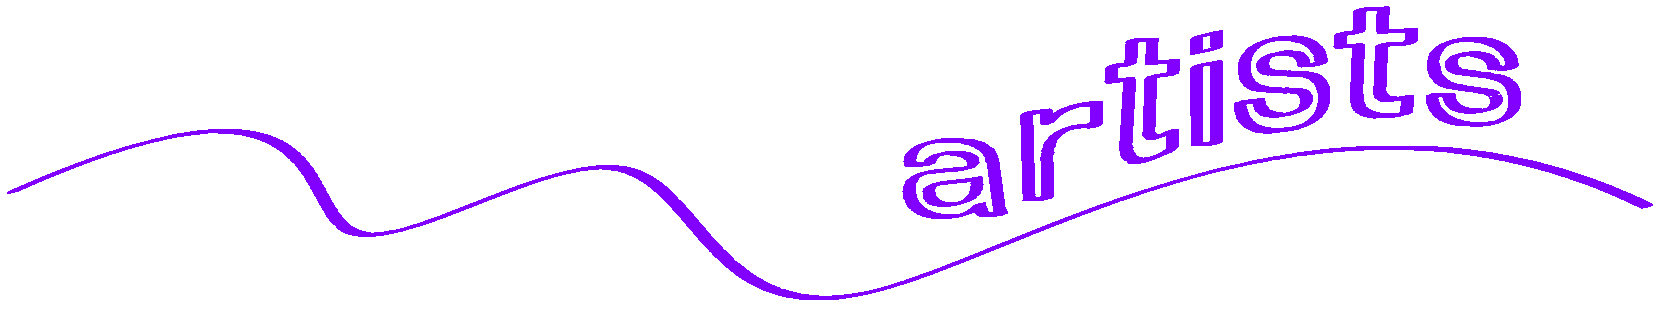
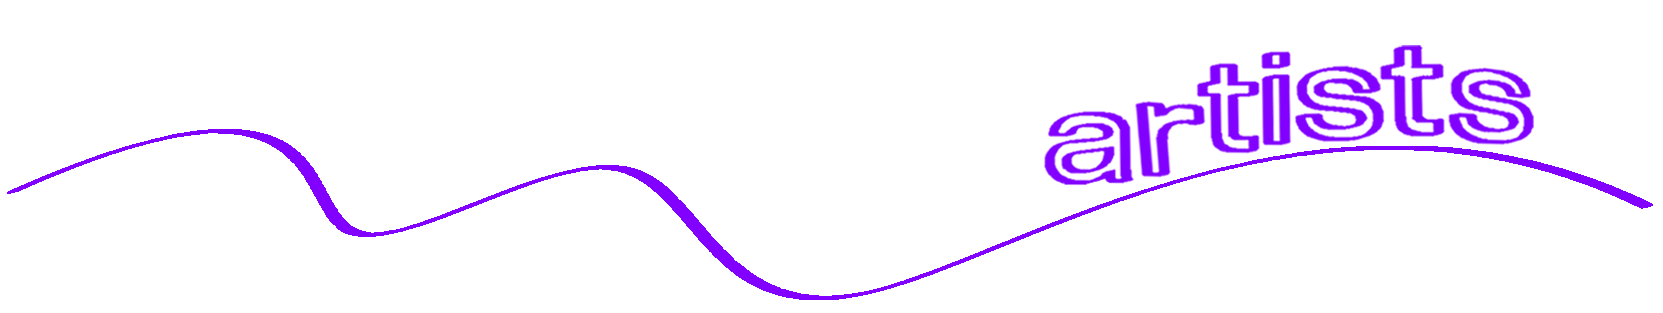
updated dividers, added numbers to exhibition

diff --git a/project-pages/collaborators.htm b/project-pages/collaborators.htm
@@ -103,90 +103,113 @@
         </div>
 
         <article id="ATM">
-          <h2>Archive of Trans Memory</h2>
-          <img src="../assets/collaborators/Archives.jpeg" width="50px" title="">
-          <p>Buenos Aires, Argentina</p>
-          <p>The Archive of Trans Memory was created in 2013 as an initiative of Trans activist María Belén Correa along with the help of visual artist Cecilia Estalles. Together, they initiated the digital preservation, conservation and
-            compilation
-            of
-            the archives. The archive functions to provide a space for visual and political research that gathers and rescues documents that demonstrate the heritage and history of the Argentine trans / transvestite community.</p>
-          <p>
-            The archive was formed to create new possibilities and a fertile territory for addressing new narratives and alternate historical discourse within this community. It creates an alternative cartography by actively looking to develop new
-            links between past, present and future.</p>
-          <p>
-            The work team is made up of a specialized team of surviving trans women, contemporary photographers and curators of photographs and documents. It is a collaborative space in which journalists, historians, curators, art critics, editors,
-            curators, researchers and teachers can explore the complexities of identities in new ways presented through diverse disciplines.</p>
-          <p>
-            The members of the Trans Memory Archive are: Carla Pericles, Magalí Muñiz, María Belén Correa, Car Ibarra, Cecilia Estalles, Cecilia Saurí.
-          </p>
+          <span>
+            <h2>Archive of Trans Memory</h2>
+            <p>Buenos Aires, Argentina</p>
+          </span>
+          <img src="../assets/collaborators/Archives.png" width="100px" title="">
+          <div>
+            <p class="detail">The Archive of Trans Memory was created in 2013 as an initiative of Trans activist María Belén Correa along with the help of visual artist Cecilia Estalles. Together, they initiated the digital preservation, conservation
+              and
+              compilation
+              of
+              the archives. The archive functions to provide a space for visual and political research that gathers and rescues documents that demonstrate the heritage and history of the Argentine trans / transvestite community.</p>
+            <p class="detail">
+              The archive was formed to create new possibilities and a fertile territory for addressing new narratives and alternate historical discourse within this community. It creates an alternative cartography by actively looking to develop new
+              links between past, present and future.</p>
+            <p class="detail">
+              The work team is made up of a specialized team of surviving trans women, contemporary photographers and curators of photographs and documents. It is a collaborative space in which journalists, historians, curators, art critics, editors,
+              curators, researchers and teachers can explore the complexities of identities in new ways presented through diverse disciplines.</p>
+            <p class="detail">
+              The members of the Trans Memory Archive are: Carla Pericles, Magalí Muñiz, María Belén Correa, Car Ibarra, Cecilia Estalles, Cecilia Saurí.
+            </p>
+          </div>
           <span><a href="https://archivotrans.ar/" target="_blank" title="website">archivotrans.ar</a></span>
         </article>
 
         <article id="CCC">
-          <h2>Catrileo Carrion Community</h2>
-          <img src="../assets/collaborators/CCC.png" width="50px" title="">
-          <p>Chile/ U.S.A.</p>
-          <p>Catrileo+Carrión Community (Wallmapu/Chile – Kumeyaay Land/San Diego, CA):
-            We are a two-spirit Mapuche (epupillan) community that develops research-creation artistic projects that are intimately linked to specific territories and communities. We have been working since 2015 from Wallmapu/Chile and now our
-            community is located both in California/Kumayaay land and South America. This hemispheric experience gives us a privileged point of view to see social change, land disputes and colonization from a broad perspective. We have worked from
-            art
-            crossing our biographies with diverse materialities and contexts with whom we get involved. We use video, archives, writing and weaving as practices that are intertwined with our own life. As a two-spirit non-reproductive community we
-            use
-            our vital energy to connect with others (human and non-humans) to share reflections and concerns. We use our biographies and positionalities to depict indigenous life as an ever-changing, deeply rooted and critical practice, but also a
-            transformative and creative force. We engage in a practice of occupation and re-structuring of the surface of the video/projection. We understand these surfaces as interfaces for decolonization, territorial imagination and re-connection
-            with each other. We believe in a future where a queer BIPOC utopia is possible, and we are rehearsing this idea in our everyday artistic and political practice.
-          </p>
+          <span>
+            <h2>Catrileo Carrion Community</h2>
+            <p>Chile/ U.S.A.</p>
+          </span>
+          <img src="../assets/collaborators/CCC.png" width="100px" title="">
+          <div>
+            <p class="detail">Catrileo+Carrión Community (Wallmapu/Chile – Kumeyaay Land/San Diego, CA):
+              We are a two-spirit Mapuche (epupillan) community that develops research-creation artistic projects that are intimately linked to specific territories and communities. We have been working since 2015 from Wallmapu/Chile and now our
+              community is located both in California/Kumayaay land and South America. This hemispheric experience gives us a privileged point of view to see social change, land disputes and colonization from a broad perspective. We have worked from
+              art
+              crossing our biographies with diverse materialities and contexts with whom we get involved. We use video, archives, writing and weaving as practices that are intertwined with our own life. As a two-spirit non-reproductive community we
+              use
+              our vital energy to connect with others (human and non-humans) to share reflections and concerns. We use our biographies and positionalities to depict indigenous life as an ever-changing, deeply rooted and critical practice, but also a
+              transformative and creative force. We engage in a practice of occupation and re-structuring of the surface of the video/projection. We understand these surfaces as interfaces for decolonization, territorial imagination and re-connection
+              with each other. We believe in a future where a queer BIPOC utopia is possible, and we are rehearsing this idea in our everyday artistic and political practice.
+            </p>
+          </div>
           <span><a href="https://www.instagram.com/catrileocarrion/" target="_blank" title="instagram">@catrileocarrion</a><a href="https://vimeo.com/catrileocarrion" target="_blank" title="vimeo">vimeo/catrileocarrion</a><a
               href="https://linktr.ee/catrileocarrion" target="_blank" title="linktree">linktr.ee/catrileocarrion</a></span>
         </article>
 
         <article id="JD">
-          <h2>Jennifer Dysart</h2>
-          <img src="../assets/collaborators/JD.jpg" width="50px" title="">
-          <p>Canada</p>
-          <p>Jennifer Dysart is a director of short films, an archive researcher, a film set decorator, a field
-            producer, a former assistant director and production coordinator. She is an archive enthusiast and loves found footage and experimental films. She was selected as the artist in residence at Library and Archives Canada via the
-            Archive/Counter-Archive project at York University in 2019/2020. She was commissioned filmmaker for the Home Made Visible project by Regent Park Film Festival and created Caribou in the Archive, a short experimental found footage film
-            in
-            2018/2019. For her found footage-heavy documentary Kewekapawetan: Return After the Flood, Jennifer received the York University Master’s Thesis Prize in 2014, as well as second place at the Factory Media Centre member screening in 2015.
-            In
-            2017, she was on the Board of Directors for the Factory Media Centre in Hamilton, Ontario and has served on many arts and film juries. She has been employed and inspired by many Canadian institutions such as the Museum of Anthropology,
-            York
-            University, The Art Gallery of Hamilton,The Banff Centre, Parks Canada National Historic Sites and The Whyte Museum of the Canadian Rockies. She has carried out research in many more locations such as the Provincial Archives of
-            Manitoba,
-            the Glenbow Museum, the Royal British Columbia Museum, Methodist Church Archives, and the Ontario Provincial Archives. Jennifer was born in Alberta (Blackfoot territory), raised in BC (Coast Salish territory), lives in Hamilton Ontario
-            (Haudenosaunee territory) and has Cree roots
-            from South Indian Lake, Manitoba.
-          </p>
+          <span>
+            <h2>Jennifer Dysart</h2>
+            <p>Canada</p>
+          </span>
+          <img src="../assets/collaborators/JD.jpg" width="100px" title="">
+          <div>
+            <p class="detail">Jennifer Dysart is a director of short films, an archive researcher, a film set decorator, a field
+              producer, a former assistant director and production coordinator. She is an archive enthusiast and loves found footage and experimental films. She was selected as the artist in residence at Library and Archives Canada via the
+              Archive/Counter-Archive project at York University in 2019/2020. She was commissioned filmmaker for the Home Made Visible project by Regent Park Film Festival and created Caribou in the Archive, a short experimental found footage film
+              in
+              2018/2019. For her found footage-heavy documentary Kewekapawetan: Return After the Flood, Jennifer received the York University Master’s Thesis Prize in 2014, as well as second place at the Factory Media Centre member screening in 2015.
+              In
+              2017, she was on the Board of Directors for the Factory Media Centre in Hamilton, Ontario and has served on many arts and film juries. She has been employed and inspired by many Canadian institutions such as the Museum of Anthropology,
+              York
+              University, The Art Gallery of Hamilton,The Banff Centre, Parks Canada National Historic Sites and The Whyte Museum of the Canadian Rockies. She has carried out research in many more locations such as the Provincial Archives of
+              Manitoba,
+              the Glenbow Museum, the Royal British Columbia Museum, Methodist Church Archives, and the Ontario Provincial Archives. Jennifer was born in Alberta (Blackfoot territory), raised in BC (Coast Salish territory), lives in Hamilton Ontario
+              (Haudenosaunee territory) and has Cree roots
+              from South Indian Lake, Manitoba.
+            </p>
+          </div>
           <span><a href="http://jenniferdysart.com/" target="_blank" title="www.jenniferdysart.com/">jenniferdysart.com</a></span>
         </article>
 
         <article id="Lishan">
-          <h2>Lishan AZ</h2>
-          <img src="../assets/collaborators/Lishan.jpg" width="50px" title="">
-          <p>USA</p>
-          <p>Lishan AZ is a multi-disciplinary artist working in immersive installation, community-based projects, and photography. She explores themes of home, intimacy, and interiority. She studies Black women who have disrupted history by daring
-            to
-            add their voices to the historical record. Lishan holds her M.F.A. in interactive media and games from the University of Southern California and is currently an assistant professor of cinema & digital media at the University of
-            California,
-            Davis.</p>
+          <span>
+            <h2>Lishan AZ</h2>
+            <p>USA</p>
+          </span>
+          <img src="../assets/collaborators/Lishan.jpg" width="100px" title="">
+          <div>
+            <p class="detail">Lishan AZ is a multi-disciplinary artist working in immersive installation, community-based projects, and photography. She explores themes of home, intimacy, and interiority. She studies Black women who have disrupted
+              history by daring
+              to
+              add their voices to the historical record. Lishan holds her M.F.A. in interactive media and games from the University of Southern California and is currently an assistant professor of cinema & digital media at the University of
+              California,
+              Davis.</p>
+          </div>
           <span><a href="http://lishanaz.com/" target="_blank" title="lishanaz.com">lishanaz.com</a><a href="http://trackingida.com/" target="_blank" title="trackingida.com">trackingida.com</a></span>
         </article>
 
         <article id="Marton">
-          <h2>Marton Robinson</h2>
-          <img src="../assets/collaborators/Marton.jpg" width="50px" title="">
-          <p>Cost Rica / Canada / USA</p>
-          <p>Costa Rican artist Marton Robinson has an interdisciplinary background informed by his studies in both Physical Education and Art and Visual Communication. He completed an MFA at the University of Southern California. Robinson’s art,
-            which
-            is informed mainly by African-American traditions, challenges the conventional representations of black identities in art history, mainstream culture, and the official national narratives, especially those of Costa Rica. With an often
-            ironic and rhetorical take on the constructs of racism, this practice endeavors to confront the hierarchies and conceptions inherited from colonialism in order to subvert the mindsets and prejudices ingrained in our social experience.
-            Robinson’s work exposes the nuances present in the Afro-Latino experience, enriching the critical discourse of contemporary works of the African Diaspora.</p>
-          <p>
-            Robinson has participated in exhibitions in spaces such as: The Getty Center, California; Museo de Arte y Diseño Contemporáneo, Costa Rica; Vincent Price Art Museum, California; Fundación Ars TEOR/éTica, Costa Rica; Museo de Arte
-            Costarricense, Costa Rica; New Wight Gallery, California; X Bienal Centroamericana, Costa Rica; Pacific Standard Time LA/LA; Aidekman Arts Center, Boston; Le Palais de Tokyo, France; Bergen Kjøtt, Bergen, Norway; Centro de la Imagen,
-            México; ARTBO, Colombia; Prizm Art Fair; Mandeville Gallery, New York; Gallery GVCC, Casablanca; Museo Amparo, México; 21st Biennial Contemporary Art Sesc Videobrasil, Brazil.
-          </p>
+          <span>
+            <h2>Marton Robinson</h2>
+            <p>Cost Rica / Canada / USA</p>
+          </span>
+          <img src="../assets/collaborators/Marton.jpg" width="100px" title="">
+          <div>
+            <p class="detail">Costa Rican artist Marton Robinson has an interdisciplinary background informed by his studies in both Physical Education and Art and Visual Communication. He completed an MFA at the University of Southern California.
+              Robinson’s art,
+              which
+              is informed mainly by African-American traditions, challenges the conventional representations of black identities in art history, mainstream culture, and the official national narratives, especially those of Costa Rica. With an often
+              ironic and rhetorical take on the constructs of racism, this practice endeavors to confront the hierarchies and conceptions inherited from colonialism in order to subvert the mindsets and prejudices ingrained in our social experience.
+              Robinson’s work exposes the nuances present in the Afro-Latino experience, enriching the critical discourse of contemporary works of the African Diaspora.</p>
+            <p class="detail">
+              Robinson has participated in exhibitions in spaces such as: The Getty Center, California; Museo de Arte y Diseño Contemporáneo, Costa Rica; Vincent Price Art Museum, California; Fundación Ars TEOR/éTica, Costa Rica; Museo de Arte
+              Costarricense, Costa Rica; New Wight Gallery, California; X Bienal Centroamericana, Costa Rica; Pacific Standard Time LA/LA; Aidekman Arts Center, Boston; Le Palais de Tokyo, France; Bergen Kjøtt, Bergen, Norway; Centro de la Imagen,
+              México; ARTBO, Colombia; Prizm Art Fair; Mandeville Gallery, New York; Gallery GVCC, Casablanca; Museo Amparo, México; 21st Biennial Contemporary Art Sesc Videobrasil, Brazil.
+            </p>
+          </div>
           <span><a href="http://martonrobinson.com/" target="_blank" title="martonrobinson.com">martonrobinson.com</a><a href="https://www.instagram.com/marton_robinson/" target="_blank" title="@marton_robinson">@marton_robinson</a></span>
         </article>
 
@@ -196,56 +219,77 @@
 
         </div>
         <article id="">
-          <h2>soJin Chun</h2>
-          <img src="../assets/collaborators/soJin.jpg" width="50px" title="">
-          <p>soJin Chun is a Toronto-based educator/artist/curator that explores the alternative dialogues that emerge in-between cultures and disciplines. With a focus on connecting with youth, community members, and artists, her work unpacks
-            identities and narratives that exist outside of dominant representations. soJin's diverse art practice has been informed by her personal experience living in the Korean diaspora in Bolivia and Canada while recognizing her colonized
-            subjectivity as an English, Spanish and Portuguese speaker. She aims to create spaces to present contemporary art that is socially engaged and relevant to everyday communities. Collaboration is an essential part of her process as she
-            has
-            worked extensively with under-represented communities in Canada and South America.</br>
-            Through International artist residencies, soJin has developed a collaborative art practice working with local communities to resist stereotypes, gentrification and displacement. Chun has participated in international film festivals such
-            as
-            the Oberhausen International Film Festival (2020). She has exhibited Internationally in DIY art spaces, galleries and museums. In 2021, she participated in a group exhibition titled, Bop, Art & Labour at Alternative Artspace Ipo in
-            Seoul,
-            Korea. soJin’s video works are represented by GIV (Montreal), CFMDC (Toronto) and V-Tape (Toronto). Chun has a B.A. in Applied Arts from Ryerson University and a Masters in Communications and Culture from Ryerson/York Universities.</p>
+          <span>
+            <h2>soJin Chun</h2>
+            <p>Tkaranto / Toronto</p>
+          </span>
+          <img src="../assets/collaborators/soJin.jpg" width="100px" title="">
+          <div>
+            <p class="detail">soJin Chun is a Toronto-based educator/artist/curator that explores the alternative dialogues that emerge in-between cultures and disciplines. With a focus on connecting with youth, community members, and artists, her
+              work
+              unpacks
+              identities and narratives that exist outside of dominant representations. soJin's diverse art practice has been informed by her personal experience living in the Korean diaspora in Bolivia and Canada while recognizing her colonized
+              subjectivity as an English, Spanish and Portuguese speaker. She aims to create spaces to present contemporary art that is socially engaged and relevant to everyday communities. Collaboration is an essential part of her process as she
+              has
+              worked extensively with under-represented communities in Canada and South America.</p>
+            <p>
+              Through International artist residencies, soJin has developed a collaborative art practice working with local communities to resist stereotypes, gentrification and displacement. Chun has participated in international film festivals such
+              as
+              the Oberhausen International Film Festival (2020). She has exhibited Internationally in DIY art spaces, galleries and museums. In 2021, she participated in a group exhibition titled, Bop, Art & Labour at Alternative Artspace Ipo in
+              Seoul,
+              Korea. soJin’s video works are represented by GIV (Montreal), CFMDC (Toronto) and V-Tape (Toronto). Chun has a B.A. in Applied Arts from Ryerson University and a Masters in Communications and Culture from Ryerson/York Universities.</p>
+          </div>
           <!-- <span><a href="" target="_blank" title="">link01</a><a href="" target="_blank" title="">link02</a><a href="" target="_blank" title="">link03</a></span> -->
         </article>
+
         <!-- WEB DESIGN -->
         <div class="divider">
           <img src="../assets/collaborators/divider-web.png" width="500px" title="Artist">
-
         </div>
         <article id="">
-          <h2>Rupali Morzaria</h2>
-          <img src="../assets/collaborators/" width="50px" title="">
-          <p>Montreal, Canada</p>
-          <p>webdesigner ...</p>
+          <span>
+            <h2>Rupali Morzaria</h2>
+            <p>Tiohtià:ke / Montreal</p>
+          </span>
+          <img src="../assets/collaborators/rupali.png" width="100px" title="">
+          <div>
+            <p class="detail">An ex-architect, graphic designer who enjoys hand coding websites and sometimes making IG filters.</p>
+          </div>
           <span><a href="https://rupalimo.github.io/" target="_blank" title="rupalimorzaria.com">rupalimorzaria.com</a><a href="https://www.instagram.com/shabana_asthma/" target="_blank" title="@shabana_asthma">@shabana_asthma</a></span>
         </article>
+
         <article id="">
-          <h2>Sibling Industries /TBD</h2>
-          <img src="../assets/collaborators/" width="50px" title="">
-          <p>USA</p>
-          <p>SIBLING is a creative web studio run by Megumi and Elina, who are siblings.</p>
+          <span>
+            <h2>Sibling Industries /TBD</h2>
+            <p>USA</p>
+          </span>
+          <img src="../assets/collaborators/" width="100px" title="">
+          <div>
+            <p class="detail">SIBLING is a creative web studio run by Megumi and Elina, who are siblings.</p>
+
+          </div>
           <span><a href="https://sibling.industries/" target="_blank" title="website">sibling.industries/</a><a href="https://www.instagram.com/sibling.industries/" target="_blank" title="@sibling.industries">@sibling.industries</a></span>
         </article>
 
 
         <!-- FUNDING -->
-        <div class="subtitle">
-          <h4>funding</h4>
-          <h4>&#8595;&#8595;&#8595;&#8595;&#8595;</h4>
+        <div class="divider">
+          <img src="../assets/collaborators/divider-partners.png" width="500px" title="Artist">
         </div>
-
         <article id="">
-          <h2>7th Generation Image-Makers</h2>
-          <img src="" width="50px" title="">
-          <p>Toronto, Canada</p>
-          <p>7th Generation Image Makers is a dynamic, youth-led Aboriginal community arts program operating within Native Child and Family Services of Toronto. </p>
+          <span>
+            <h2>7th Generation Image-Makers</h2>
+            <p>Tkaranto, Canada</p>
+          </span>
+          <img src="" width="100px" title="">
+          <div>
+            <p class="detail">7th Generation Image Makers is a dynamic, youth-led Aboriginal community arts program operating within Native Child and Family Services of Toronto. </p>
 
-          <p>Since 1995 we have provided quality and accessible art and media based programming in a culturally supportive and safe environment to Toronto-based youth and youth at-risk. We work to create opportunities for professional arts training
-            including ongoing accessible and quality fine art instruction taught by professional contemporary Native artists, mentors, and Elders.</p>
-
+            <p class="detail">Since 1995 we have provided quality and accessible art and media based programming in a culturally supportive and safe environment to Toronto-based youth and youth at-risk. We work to create opportunities for
+              professional
+              arts training
+              including ongoing accessible and quality fine art instruction taught by professional contemporary Native artists, mentors, and Elders.</p>
+          </div>
           <!-- <p>Our team of trained practicing artists and professionals have created
             substantial opportunities for youth artists through community partnerships and public art commissions. Exciting works by our artists can be seen at the
             ImagineNATIVE Film and Media Arts Festival, Aboriginal Voices Radio, McLaren Art Gallery, Indian and Northern Affairs Canada, the University of Toronto, Native Men’s Residence & Monarch Park Collegiate.
@@ -255,24 +299,29 @@
 
 
         <article id="">
-          <h5>White Water Gallery</h2>
-            <img src="" width="50px" title="">
-            <p>North Bay, Canada</p>
-            <!-- <p>MISSION: White Water Gallery is a not-for-profit Artist-Run Centre committed to supporting artistic practices that prioritize risk and innovation. Understanding the need to advance the public’s threshold for viewing contemporary art
+          <span>
+            <h2>White Water Gallery</h2>p>North Bay, Canada</p>
+          </span>
+          <img src="" width="100px" title="">
+
+          <!-- <p>MISSION: White Water Gallery is a not-for-profit Artist-Run Centre committed to supporting artistic practices that prioritize risk and innovation. Understanding the need to advance the public’s threshold for viewing contemporary art
               the
               gallery encourages outreach programming that promotes accessibility and shared knowledge.</p>
             <p>MANDATE: To advance the public’s appreciation of the arts by producing public art exhibitions and presentations, and by providing a forum for qualified artists to exhibit, present, or perform their artistic works through participation
               in
               such events.</p> -->
-            <p>History / Background: Founded in 1974 and incorporated in 1977, the White Water Gallery (WWG) was originally created to facilitate opportunities for local artists in need of professional development who were unable to find
+          <div>
+            <p class="detail">History / Background: Founded in 1974 and incorporated in 1977, the White Water Gallery (WWG) was originally created to facilitate opportunities for local artists in need of professional development who were unable to
+              find
               accommodating
               venues for their research and dissemination projects. This need combined with the dedication of many local artists founded an institution devoted to the support of artistic development prioritizing research, risk-taking and
-              experimentation
+              experimentatio10
               in the arts. Today many of Canada’s most established and successful artists acknowledge the role WWG has played in advancing their careers.
             </p>
-            <span><a href="https://whitewatergallery.com/" target="_blank" title="whitewatergallery.com">whitewatergallery.com</a><a href="https://www.twitch.tv/whitewatergallery" target="_blank"
-                title="twitch.tv/whitewatergallery">twitch.tv/whitewatergallery</a>
-            </span>
+          </div>
+          <span><a href="https://whitewatergallery.com/" target="_blank" title="whitewatergallery.com">whitewatergallery.com</a><a href="https://www.twitch.tv/whitewatergallery" target="_blank"
+              title="twitch.tv/whitewatergallery">twitch.tv/whitewatergallery</a>
+          </span>
         </article>
 
     </section>

diff --git a/project-pages/schedule.htm b/project-pages/schedule.htm
@@ -74,7 +74,9 @@
 
       <!-- 01 Jennifer Dysart -->
       <div class="schedule">
-        <p>&#10112;</p>
+        <div class="divider">
+          <img src="../assets/exhibition/divider-01.png" width="100px" title="Artist">
+        </div>
 
         <article>
           <div class="JD-gallery">
@@ -104,7 +106,10 @@
 
         <!-- 02 Arcive of Trans Memory -->
 
-        <p>&#10113;</p>
+
+        <div class="divider">
+          <img src="../assets/exhibition/divider-02.png" width="100px" title="Artist">
+        </div>
 
         <article>
           <div class="trans-gallery">
@@ -136,7 +141,9 @@
 
         <!-- 03 CCC -->
 
-        <p>&#10114;</p>
+        <div class="divider">
+          <img src="../assets/exhibition/divider-03.png" width="100px" title="Artist">
+        </div>
 
         <article>
           <div class="CCC-gallery">
@@ -168,7 +175,9 @@
         <!-- 04 LISHAN & MARTON  -->
 
 
-        <p>&#10115;</p>
+        <div class="divider">
+          <img src="../assets/exhibition/divider-04.png" width="100px" title="Artist">
+        </div>
 
         <article>
           <div class="ML-gallery">

diff --git a/css/style.css b/css/style.css
@@ -363,8 +363,8 @@ div.schedule {
   grid-template-columns: repeat(2, minmax(300px, 1fr));
   grid-column-gap: 0.5em;
   /* border-bottom: 1px dotted #FEBDFF; */
-  padding-bottom: 1em;
-  margin-bottom: 1em;
+  /* padding-bottom: 1em;
+  margin-bottom: 1em; */
 }
 
 .schedule p {
